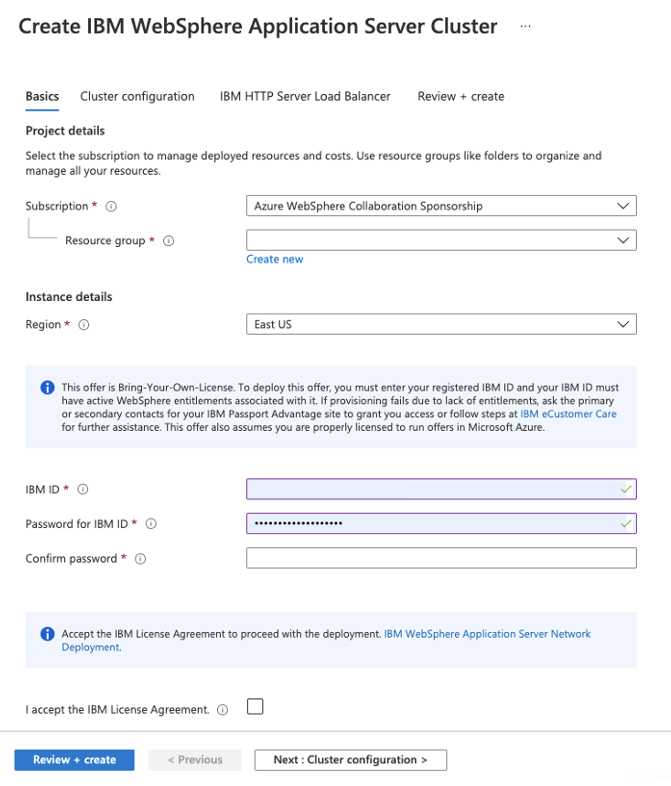
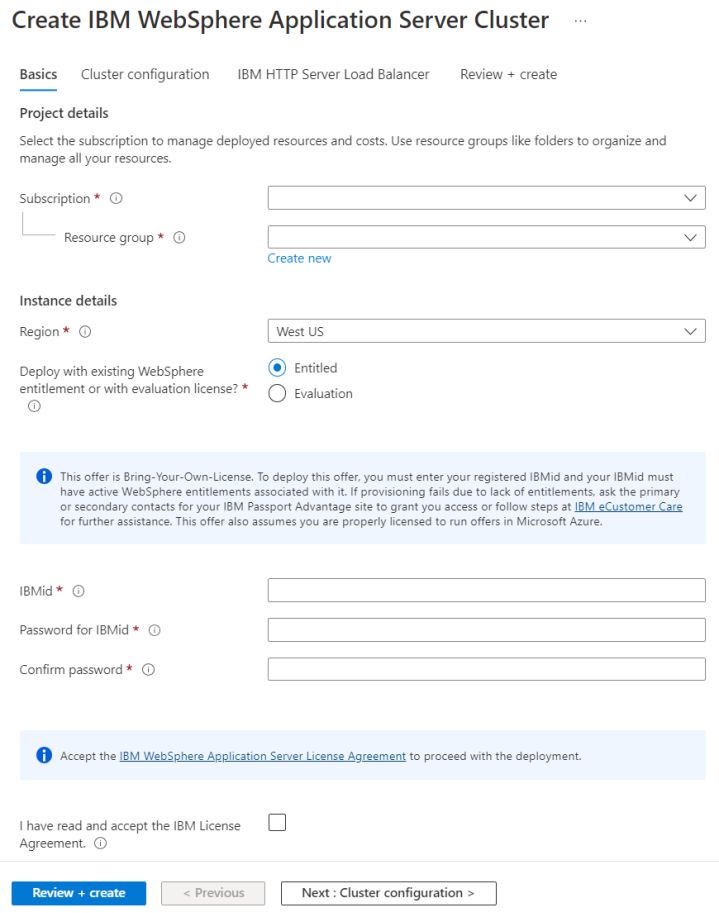
Encourage the use of the evaluation license feature (#3337)
* Init PR

* Polish

* polish

* edits, cropped screenshot

* Acrolinx fixes; updated entitled screenshot

* removed subscription name from screenshots

diff --git a/articles/java/ee/traditional-websphere-application-server-virtual-machines.md b/articles/java/ee/traditional-websphere-application-server-virtual-machines.md
@@ -1,10 +1,10 @@
 ---
-title: Deploy WebSphere Application Server (traditional) with High Availability on Azure Virtual Machines
+title: "Quickstart: Deploy WebSphere Application Server (traditional) with High Availability on Azure Virtual Machines"
 description: Shows you how to deploy WebSphere Application Server (traditional) with High Availability on Azure Virtual Machines.
 author: KarlErickson
 ms.author: zhengchang
-ms.topic: tutorial
-ms.date: 01/26/2022
+ms.topic: quickstart
+ms.date: 07/29/2022
 ms.custom: devx-track-java, devx-track-javaee, devx-track-javaee-was
 ---
 
@@ -15,7 +15,7 @@ This article shows you how to quickly deploy a cluster of WebSphere Application 
 ## Prerequisites
 
 - An Azure subscription; if you don't already have an Azure subscription, you can activate your [MSDN subscriber benefits](https://azure.microsoft.com/pricing/member-offers/credit-for-visual-studio-subscribers/) or sign up for a [free account](https://azure.microsoft.com/free/).
-- An IBMid with necessary entitlement for WebSphere Traditional. This offer is Bring-Your-Own-License. To deploy this offer, you must enter your registered IBMid and your IBMid must have active WebSphere entitlements associated with it. If provisioning fails due to lack of entitlements, ask the primary or secondary contacts for your IBM Passport Advantage site to grant you access. Alternately, follow steps at IBM eCustomer Care for further assistance. This offer also assumes you're properly licensed to run offers in Microsoft Azure. For more information, see [IBM eCustomer Care](https://ibm.biz/IBMidEntitlement).
+- An IBMid with necessary entitlement for WebSphere Traditional (optional). If you create the deployment with an evaluation license, you won't be required to provide an IBMid with entitlement for WebSphere Traditional. To get the benefit, you need to accept the [IBM WebSphere Application Server License Agreement](https://ibm.biz/tWASNDLicenseAzureVMs) during the deployment creation steps. Otherwise, you must enter your registered IBMid and your IBMid must have active WebSphere entitlements associated with it. If provisioning with IBMid fails due to lack of entitlements, ask the primary or secondary contacts for your IBM Passport Advantage site to grant you access. Alternately, follow steps at IBM eCustomer Care for further assistance. This offer also assumes you're properly licensed to run offers in Microsoft Azure. For more information, see [IBM eCustomer Care](https://ibm.biz/IBMidEntitlement).
 
 ## Provision a cluster
 
@@ -37,9 +37,19 @@ To begin defining your deployment, select **Create** on the deployment page.
 
 You'll then be shown the **Create IBM WebSphere Application Server Cluster** page where you can start configuring the deployment, as shown in the following screenshot.
 
-:::image type="content" source="media/traditional-websphere-application-server-virtual-machines/cluster-deployment-basics-tab.png" alt-text="Azure portal screenshot with IBM WebSphere Application Server Cluster offering showing Basics configuration pane." lightbox="media/traditional-websphere-application-server-virtual-machines/cluster-deployment-basics-tab.png":::
+### [Deploy with an evaluation license](#tab/basic)
+
+:::image type="content" source="media/traditional-websphere-application-server-virtual-machines/cluster-deployment-basics-tab-evaluation-license.png" alt-text="Screenshot of Azure portal with IBM WebSphere Application Server Cluster offering showing Basics configuration pane using evaluation license." lightbox="media/traditional-websphere-application-server-virtual-machines/cluster-deployment-basics-tab-evaluation-license.png":::
+
+You'll need to select the checkbox to accept [IBM License Agreement](https://ibm.biz/tWASNDLicenseAzureVMs).
+
+### [Deploy with IBMid](#tab/standard)
+
+:::image type="content" source="media/traditional-websphere-application-server-virtual-machines/cluster-deployment-basics-tab.png" alt-text="Screenshot of Azure portal with IBM WebSphere Application Server Cluster offering showing Basics configuration pane using IBMid." lightbox="media/traditional-websphere-application-server-virtual-machines/cluster-deployment-basics-tab.png":::
 
 Each field on this page has an information icon that gives you more information to help with filling it out. The offer is Bring-Your-Own-License (BYOL), so requires you to have purchased entitlements to WAS. Your entitlement is checked during installation into the VMs. You must provide an IBMid that is associated with the entitlements. If the ID you provide doesn't have entitlements, then the deployment will fail to install WAS. You'll see error messages that include the following text: `The provided IBMid does not have entitlement to install WebSphere Application Server.`
+
+---
 
 After you’ve completed this configuration, select **Next: Cluster configuration**.
 
@@ -99,11 +109,11 @@ You should see new entries in the table under the **Server** column. These entri
 
 :::image type="content" source="media/traditional-websphere-application-server-virtual-machines/map-modules-to-servers-outcome-page.png" alt-text="Screenshot of IBM WebSphere 'Install New Application' dialog with 'Step 2: Map modules to servers' pane showing and 'Server' table column highlighted." lightbox="media/traditional-websphere-application-server-virtual-machines/map-modules-to-servers-outcome-page.png":::
 
-After you’ve completed all the steps, select **Finish** and then on the next page select **Save**.
+After you’ve completed all the steps, select **Finish**, and then on the next page select **Save**.
 
 Next, you need to start the application. Go to **Applications > All Applications**. Select the checkbox for **DefaultApplication.ear**, ensure the **Action** is set to **Start**, and then select **Submit Action**.
 
-You should see success messages that look similar to the ones in the following screenshot. If you see errors, it may be that you were too quick and the app and configuration haven't reached the nodes yet.
+You should see success messages that look similar to the ones in the following screenshot. If you see errors, it may be that you were too quick, and the app and configuration haven't reached the nodes yet.
 
 :::image type="content" source="media/traditional-websphere-application-server-virtual-machines/start-app-message-page.png" alt-text="Screenshot of IBM WebSphere Messages pane." lightbox="media/traditional-websphere-application-server-virtual-machines/start-app-message-page.png":::
 
@@ -123,4 +133,4 @@ az group delete --name <resource-group-name> --yes --no-wait
 
 ## Next steps
 
-Now that you've learned how to deploy a WebSphere Application Server (traditional) cluster to Azure Virtual Machines, feel free to review and provide feedback on the [offering](https://aka.ms/websphere-on-vms-review). If you’re interested in keeping up to date with latest developments, select **Contact Me** on the [offering overview page](https://ibm.biz/WASAzureContactMe) and register to be notified when new offers are made available.
+Now that you've learned how to deploy a WebSphere Application Server (traditional) cluster to Azure Virtual Machines, feel free to review and provide feedback on the [offering](https://aka.ms/websphere-on-vms-review). If you’re interested in keeping up to date with latest developments, select **Contact Me** on the [offering overview page](https://ibm.biz/WASAzureContactMe), and register to be notified when new offers are made available.
